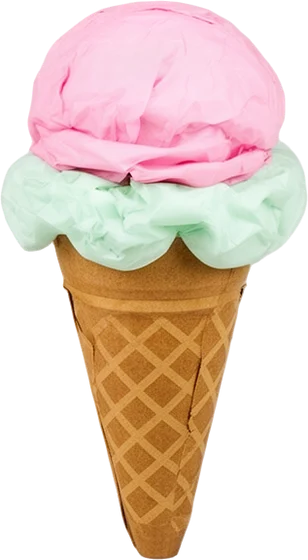
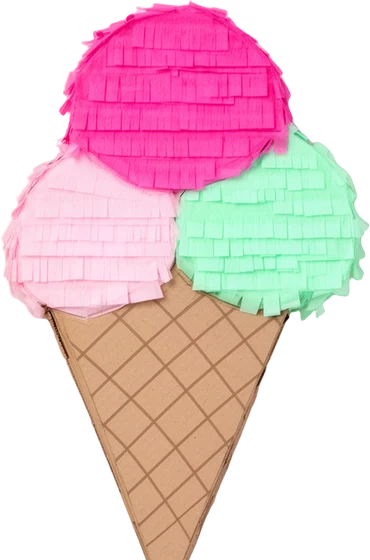
Piñata: Medium (about 50 cm) and Large (about 75 cm), priced and drawn to size; the crown, ice cream, cupcake and snowflake re-shot as real fringe piñatas

diff --git a/lib/studio/pinata.ts b/lib/studio/pinata.ts
@@ -1,7 +1,7 @@
 // The piñata (2026-11-03, the owner: "şimdi piñata studio'ya geçelim, sonra da cake studio"; her answers: a number
 // piñata — the child's age — or a theme shape; opened by pull strings or with a stick, both offered; shown hung on
 // a stand in a party room; prices placeholders until she sends hers): the Decor step's fifth part, after the
-// giveaways. One piñata, about 60 cm: its shape (the age in up to three colours, or a fringe shape — the theme's
+// giveaways. One piñata, medium or large: its shape (the age in up to three colours, or a fringe shape — the theme's
 // own first, never a licensed character), how it opens, and what is inside it as a list. Pure data and sums.
 import SHAPES from "./pinataShapes.json";
 
@@ -57,10 +57,21 @@ export const PINATA_FILLINGS = [
 ] as const;
 export type PinataFilling = (typeof PINATA_FILLINGS)[number]["id"];
 
-/** A number piñata of one digit, and each digit more; a theme shape (placeholders). */
-export const NUMBER_PINATA_PRICE = 220;
-export const EXTRA_DIGIT_PRICE = 150;
-export const SHAPE_PINATA_PRICE = 250;
+/** Its size (2026-11-03, the owner: "size seçilsin, medium ve large iki size olsun"), how tall. */
+export const PINATA_SIZES = [
+  { id: "medium", name: "Medium", note: "About 50 cm", cm: 50 },
+  { id: "large", name: "Large", note: "About 75 cm", cm: 75 },
+] as const;
+export type PinataSize = (typeof PINATA_SIZES)[number]["id"];
+
+/** A number piñata of one digit, and each digit more; a theme shape — by size (placeholders). */
+export const NUMBER_PINATA_PRICE: Record<PinataSize, number> = { medium: 220, large: 320 };
+export const EXTRA_DIGIT_PRICE: Record<PinataSize, number> = { medium: 150, large: 220 };
+export const SHAPE_PINATA_PRICE: Record<PinataSize, number> = { medium: 250, large: 360 };
+/** The piñata itself, by its shape, digits and size. */
+export const pinataPrice = (p: Pick<Pinata, "kind" | "number" | "size">) =>
+  p.kind === "number" ? NUMBER_PINATA_PRICE[p.size] + Math.max(0, p.number.length - 1) * EXTRA_DIGIT_PRICE[p.size] : SHAPE_PINATA_PRICE[p.size];
+export const pinataSize = (id: PinataSize) => PINATA_SIZES.find((s) => s.id === id) ?? PINATA_SIZES[0];
 /** Colours a number piñata's fringe comes in, in bands top to bottom. */
 export const MAX_PINATA_COLOURS = 3;
 
@@ -74,6 +85,7 @@ export interface Pinata {
   colours: string[];
   /** The theme-shape piñata. */
   shape: PinataShape;
+  size: PinataSize;
   opening: PinataOpening;
   fillings: PinataFilling[];
   /** The customer pressed Finish (they may still change it). */
@@ -92,15 +104,14 @@ export function defaultPinata(seed: { themeId?: string; age?: string; colours?: 
   const colours = (seed.colours ?? []).filter((h) => HEX.test(h)).slice(0, MAX_PINATA_COLOURS);
   return {
     enabled: true, kind: "number", number: cleanAge(seed.age) || "5", colours: colours.length ? colours : ["#F8BBD0", "#DDD6FE", "#BAE6FD"],
-    shape: (THEME_PINATAS[seed.themeId ?? ""] ?? ["star"])[0], opening: "pull", fillings: ["candy", "toys", "confetti"],
+    shape: (THEME_PINATAS[seed.themeId ?? ""] ?? ["star"])[0], size: "medium", opening: "pull", fillings: ["candy", "toys", "confetti"],
   };
 }
 
 export function pinataPriceLines(p: Pinata): { label: string; amount: number }[] {
   if (!p.enabled) return [];
-  const lines = p.kind === "number"
-    ? [{ label: `Number piñata "${p.number}"`, amount: NUMBER_PINATA_PRICE + Math.max(0, p.number.length - 1) * EXTRA_DIGIT_PRICE }]
-    : [{ label: `${PINATA_SHAPES.find((s) => s.id === p.shape)?.name ?? "Shape"} piñata`, amount: SHAPE_PINATA_PRICE }];
+  const size = pinataSize(p.size).name.toLowerCase();
+  const lines = [{ label: p.kind === "number" ? `Number piñata "${p.number}", ${size}` : `${PINATA_SHAPES.find((s) => s.id === p.shape)?.name ?? "Shape"} piñata, ${size}`, amount: pinataPrice(p) }];
   const opening = PINATA_OPENINGS.find((o) => o.id === p.opening)!;
   if (opening.price) lines.push({ label: `Piñata ${opening.name.toLowerCase()}`, amount: opening.price });
   for (const f of PINATA_FILLINGS.filter((x) => p.fillings.includes(x.id))) lines.push({ label: `Piñata filling: ${f.name.toLowerCase()}`, amount: f.price });
@@ -124,6 +135,7 @@ export function readPinata(raw: unknown): Pinata | undefined {
     number: cleanAge(r.number) || base.number,
     colours: colours.length ? colours : base.colours,
     shape: PINATA_SHAPES.find((s) => s.id === r.shape)?.id ?? base.shape,
+    size: PINATA_SIZES.find((s) => s.id === r.size)?.id ?? base.size,
     opening: PINATA_OPENINGS.find((o) => o.id === r.opening)?.id ?? base.opening,
     fillings: Array.isArray(r.fillings) ? PINATA_FILLINGS.filter((f) => (r.fillings as unknown[]).includes(f.id)).map((f) => f.id) : base.fillings,
     ...(r.done === true ? { done: true } : {}),
@@ -135,7 +147,7 @@ export function readPinata(raw: unknown): Pinata | undefined {
 /** Changes whenever anything that shows in the picture changes (the fillings are a list: they do not show). */
 export function pinataRenderKey(p: Pinata, themeId: string): string {
   const shown = p.kind === "number" ? { kind: p.kind, number: p.number, colours: p.colours } : { kind: p.kind, shape: p.shape };
-  const s = JSON.stringify([themeId, shown, p.opening]);
+  const s = JSON.stringify([themeId, shown, p.opening, p.size]);
   let h = 0x811c9dc5;
   for (let i = 0; i < s.length; i++) h = Math.imul(h ^ s.charCodeAt(i), 0x01000193);
   return (h >>> 0).toString(36);
@@ -147,9 +159,9 @@ export const digitPicture = (d: string) => ({ src: `/design/pinata/digit-${d}.we
 
 /**
  * The room photo (an empty white piñata stand, its hook on the crossbar) and where things go in it: the hook, the
- * floor at the stand's feet, and how tall a 60 cm piñata is there (the stand is about 2 m).
+ * floor at the stand's feet, and how many pixels a centimetre is there (the stand is about 2 m: 800 px).
  */
-export const PINATA_ROOM = { src: "/design/pinata/room.webp", w: 896, h: 1152, hook: { x: 446, y: 272 }, floor: 1000, legs: [262, 630], tall: 250 };
+export const PINATA_ROOM = { src: "/design/pinata/room.webp", w: 896, h: 1152, hook: { x: 446, y: 272 }, floor: 1000, legs: [262, 630], perCm: 4 };
 
 /** The piñata's words for the render. */
 export function pinataWords(p: Pinata): string {

diff --git a/components/builder/pinata/PinataStep.tsx b/components/builder/pinata/PinataStep.tsx
@@ -4,8 +4,8 @@
 import { formatAED, themeById, THEMES, type BuilderConfig } from "@/lib/config";
 import { PLAIN_COLOURS } from "@/lib/studio/tableCatalog";
 import {
-  EXTRA_DIGIT_PRICE, MAX_PINATA_COLOURS, NUMBER_PINATA_PRICE, PINATA_FILLINGS, PINATA_OPENINGS, SHAPE_PINATA_PRICE,
-  cleanAge, defaultPinata, pinataShapesFor, pinataTotal, shapePicture, type Pinata,
+  EXTRA_DIGIT_PRICE, MAX_PINATA_COLOURS, PINATA_FILLINGS, PINATA_OPENINGS, PINATA_SIZES,
+  cleanAge, defaultPinata, pinataPrice, pinataShapesFor, pinataTotal, shapePicture, type Pinata,
 } from "@/lib/studio/pinata";
 import { PinataPiece } from "./PinataPreview";
 import { FinishBar } from "@/components/builder/table/AdultTableStep";
@@ -35,7 +35,7 @@ export default function PinataStep({ config, setPinata, onFinish, onSkip, render
     return (
       <div className="bz-tb-intro" data-testid="pinata-intro">
         <h2>Add a piñata?</h2>
-        <p>A tissue-fringe piñata of about 60 cm — the age, or a shape for your {theme.name} theme — filled and hung on its stand. The price adds to your party.</p>
+        <p>A tissue-fringe piñata, medium or large — the age, or a shape for your {theme.name} theme — filled and hung on its stand. The price adds to your party.</p>
         <div className="actions">
           <button type="button" className="bz-next" onClick={() => setPinata(p ? { ...p, enabled: true, done: false } : defaultPinata(pinataSeed(config)))}>Yes, add a piñata ✦</button>
           {!p && <button type="button" className="bz-back" onClick={() => setPinata({ ...defaultPinata(pinataSeed(config)), enabled: false })}>No thanks, skip</button>}
@@ -62,7 +62,6 @@ export default function PinataStep({ config, setPinata, onFinish, onSkip, render
     set({ colours: [...p.colours, hex].slice(-MAX_PINATA_COLOURS) });
   };
   const shapes = pinataShapesFor(theme.id);
-  const digitsPrice = NUMBER_PINATA_PRICE + Math.max(0, p.number.length - 1) * EXTRA_DIGIT_PRICE;
 
   return (
     <div className="bz-tb" data-testid="pinata">
@@ -71,9 +70,9 @@ export default function PinataStep({ config, setPinata, onFinish, onSkip, render
         <div className="bz-tb-item">
           <div className="bz-tb-options" role="radiogroup" aria-label="Piñata" data-testid="pinata-kind">
             {card(p.kind === "number", () => set({ kind: "number" }), piece({ ...p, kind: "number" }, "pn-k-num"),
-              "Number", "The age, in the colours you pick", `AED ${formatAED(digitsPrice)}`, "number")}
+              "Number", "The age, in the colours you pick", `AED ${formatAED(pinataPrice({ ...p, kind: "number" }))}`, "number")}
             {card(p.kind === "shape", () => set({ kind: "shape" }), piece({ ...p, kind: "shape" }, "pn-k-shape"),
-              "Theme shape", `A fringe shape for your ${theme.name} theme`, `AED ${formatAED(SHAPE_PINATA_PRICE)}`, "shape")}
+              "Theme shape", `A fringe shape for your ${theme.name} theme`, `AED ${formatAED(pinataPrice({ ...p, kind: "shape" }))}`, "shape")}
           </div>
         </div>
         {p.kind === "number" ? <>
@@ -82,7 +81,7 @@ export default function PinataStep({ config, setPinata, onFinish, onSkip, render
             <label className="bz-gv-count">
               <input type="text" inputMode="numeric" maxLength={2} value={p.number} data-testid="pinata-number" aria-label="The age on the piñata"
                 onFocus={(e) => e.target.select()} onChange={(e) => { const n = cleanAge(e.target.value); if (n) set({ number: n }); }} />
-              <small>{p.number.length > 1 ? `Two numbers, side by side — +AED ${formatAED(EXTRA_DIGIT_PRICE)} for the second.` : "One number, about 60 cm tall."}</small>
+              <small>{p.number.length > 1 ? `Two numbers, side by side — +AED ${formatAED(EXTRA_DIGIT_PRICE[p.size])} for the second.` : "One number."}</small>
             </label>
           </div>
           <div className="bz-tb-item">
@@ -108,6 +107,18 @@ export default function PinataStep({ config, setPinata, onFinish, onSkip, render
             </div>
           </div>
         )}
+      </section>
+
+      {/* 2026-11-03 (the owner: "size seçilsin, medium ve large iki size olsun"). */}
+      <section className="bz-tb-section" aria-label="Size">
+        <h2>Size</h2>
+        <div className="bz-tb-item">
+          <div className="bz-tb-options" role="radiogroup" aria-label="Size" data-testid="pinata-size">
+            {PINATA_SIZES.map((s) => card(p.size === s.id, () => set({ size: s.id }),
+              <svg viewBox="0 0 120 90" aria-hidden="true"><PinataPiece p={p} x={60} top={84 - s.cm * 1.05} tall={s.cm * 1.05} maxW={s.cm * 1.5} uid={`pn-s-${s.id}`} /></svg>,
+              s.name, s.note, `AED ${formatAED(pinataPrice({ ...p, size: s.id }))}`, s.id))}
+          </div>
+        </div>
       </section>
 
       <section className="bz-tb-section" aria-label="How it opens">

diff --git a/tests/unit/pinata.test.ts b/tests/unit/pinata.test.ts
@@ -53,21 +53,27 @@ describe("piñata", () => {
 
   it("is priced: the number by its digits, a shape, the stick, the fillings", () => {
     const p = { ...defaultPinata(), fillings: [] };
-    expect(pinataTotal(p)).toBe(NUMBER_PINATA_PRICE);
-    expect(pinataTotal({ ...p, number: "10" })).toBe(NUMBER_PINATA_PRICE + EXTRA_DIGIT_PRICE);
-    expect(pinataTotal({ ...p, kind: "shape" })).toBe(SHAPE_PINATA_PRICE);
+    expect(pinataTotal(p)).toBe(NUMBER_PINATA_PRICE.medium);
+    expect(pinataTotal({ ...p, number: "10" })).toBe(NUMBER_PINATA_PRICE.medium + EXTRA_DIGIT_PRICE.medium);
+    expect(pinataTotal({ ...p, kind: "shape" })).toBe(SHAPE_PINATA_PRICE.medium);
+    // Large (2026-11-03: "medium ve large iki size olsun").
+    expect(pinataTotal({ ...p, size: "large", number: "10" })).toBe(NUMBER_PINATA_PRICE.large + EXTRA_DIGIT_PRICE.large);
+    expect(pinataTotal({ ...p, size: "large", kind: "shape" })).toBe(SHAPE_PINATA_PRICE.large);
+    expect(pinataPriceLines({ ...p, size: "large" })[0].label).toBe('Number piñata "5", large');
     expect(pinataPriceLines({ ...p, opening: "stick" }).map((l) => l.label)).toContain("Piñata stick & blindfold");
     expect(pinataPriceLines({ ...p, fillings: ["candy", "confetti"] })).toHaveLength(3);
     expect(pinataPriceLines({ ...p, enabled: false })).toEqual([]);
     const config = { ...defaultConfig(), pinata: p };
-    expect(priceBreakdown(config).lines.filter((l) => l.section === "pinata").map((l) => l.amount)).toEqual([NUMBER_PINATA_PRICE]);
+    expect(priceBreakdown(config).lines.filter((l) => l.section === "pinata").map((l) => l.amount)).toEqual([NUMBER_PINATA_PRICE.medium]);
   });
 
   it("is read back over the defaults, never with what does not belong", () => {
     expect(readPinata(null)).toBeUndefined();
     const p = readPinata({ kind: "roof", number: "abc", colours: ["red", "#112233", "#445566", "#778899", "#AABBCC"], shape: "nope", opening: "bomb", fillings: ["candy", "rocks"],
       render: { key: "k1", path: "https://evil.example/a.jpg" } })!;
-    expect(p).toMatchObject({ enabled: true, kind: "number", number: "5", colours: ["#112233", "#445566", "#778899"], shape: "star", opening: "pull", fillings: ["candy"] });
+    expect(p).toMatchObject({ enabled: true, kind: "number", number: "5", colours: ["#112233", "#445566", "#778899"], shape: "star", opening: "pull", size: "medium", fillings: ["candy"] });
+    expect(readPinata({ size: "large" })?.size).toBe("large");
+    expect(readPinata({ size: "huge" })?.size).toBe("medium");
     expect(p.render).toBeUndefined();
     expect(readPinata({ kind: "shape", shape: "rocket", opening: "stick", enabled: false, done: true })).toMatchObject({ kind: "shape", shape: "rocket", opening: "stick", enabled: false, done: true });
   });
@@ -79,6 +85,7 @@ describe("piñata", () => {
     expect(pinataRenderKey({ ...p, number: "7" }, "unicorn")).not.toBe(k);
     expect(pinataRenderKey({ ...p, colours: ["#000000"] }, "unicorn")).not.toBe(k);
     expect(pinataRenderKey({ ...p, opening: "stick" }, "unicorn")).not.toBe(k);
+    expect(pinataRenderKey({ ...p, size: "large" }, "unicorn")).not.toBe(k);
     const s = { ...p, kind: "shape" as const };
     expect(pinataRenderKey({ ...s, colours: ["#000000"] }, "unicorn")).toBe(pinataRenderKey(s, "unicorn"));
   });
@@ -86,6 +93,8 @@ describe("piñata", () => {
   it("asks the render for the number and the opening it shows", () => {
     const p = defaultPinata({ age: "4" });
     expect(pinataPrompt(p)).toContain("the number 4");
+    expect(pinataPrompt(p)).toContain("about 50 cm tall");
+    expect(pinataPrompt({ ...p, size: "large" })).toContain("about 75 cm tall");
     expect(pinataPrompt(p)).toContain("pull strings");
     expect(pinataPrompt({ ...p, kind: "shape", shape: "rocket", opening: "stick" })).toMatch(/rocket piñata.*blindfold/);
   });

diff --git a/components/builder/pinata/PinataPreview.tsx b/components/builder/pinata/PinataPreview.tsx
@@ -4,7 +4,7 @@
 // and blindfold by the stand. Then that picture rendered into one photograph (usePieceRender, /api/pinata-render).
 import { useEffect, useState } from "react";
 import { themeById, THEMES, type BuilderConfig } from "@/lib/config";
-import { PINATA_FILLINGS, PINATA_ROOM, digitPicture, shapePicture, type Pinata } from "@/lib/studio/pinata";
+import { PINATA_FILLINGS, PINATA_ROOM, digitPicture, pinataSize, shapePicture, type Pinata } from "@/lib/studio/pinata";
 import { usePhoneJump } from "@/components/builder/usePhoneJump";
 import type { PieceRender } from "@/components/builder/usePieceRender";
 import RenderAgain from "@/components/builder/RenderAgain";
@@ -46,12 +46,13 @@ export function PinataPiece({ p, x, top, tall, uid, maxW = 380 }: { p: Pinata; x
 }
 
 /** As wide as it may hang: inside the stand's legs. */
-const ROOM_W = 330;
+const ROOM_W = 350;
 
 /** How tall the piñata hangs in the room, and where its top is: a wide shape is drawn less tall. */
 function hung(p: Pinata) {
-  const { hook, tall } = PINATA_ROOM;
+  const { hook, perCm } = PINATA_ROOM;
   const top = hook.y + 46;
+  const tall = pinataSize(p.size).cm * perCm;
   let h = tall;
   if (p.kind === "shape") {
     const pic = shapePicture(p.shape);
@@ -136,7 +137,7 @@ export default function PinataPreview({ config, render, onGenerate }: { config: 
           </div>
         )}
         <p className="note">{showRender ? "Your render — this picture, made into one photograph."
-          : <>About 60 cm, hung on its stand. {inside.length ? <>Inside: {inside.map((f) => f.name).join(" · ")}</> : "Nothing inside yet — pick what goes in it."}</>}</p>
+          : <>{pinataSize(p.size).note}, hung on its stand. {inside.length ? <>Inside: {inside.map((f) => f.name).join(" · ")}</> : "Nothing inside yet — pick what goes in it."}</>}</p>
         {backTo !== null && <button type="button" className="bz-tb-back" data-testid="pinata-back-to-choices" onClick={back}>↑ Back to your choices</button>}
         {!render.ready && !render.loading && (
           <div className="bz-tb-render" data-testid="pinata-render-box">

diff --git a/lib/studio/pinataRender.ts b/lib/studio/pinataRender.ts
@@ -1,6 +1,6 @@
 // The words for the piñata's render (app/api/pinata-render/route.ts, 2026-11-03): keep the scene of the live
 // preview exactly — the piñata on the stand's hook in the party room — and make it one real photograph.
-import { pinataWords, type Pinata } from "./pinata";
+import { pinataSize, pinataWords, type Pinata } from "./pinata";
 
 /** The words for the photograph: keep the scene, make it real. */
 export function pinataPrompt(p: Pinata): string {
@@ -8,7 +8,7 @@ export function pinataPrompt(p: Pinata): string {
     ? "Under it hang its pull strings — thin satin ribbons in the same colours, each one where image 1 has it; make them real ribbons, hanging softly."
     : "Keep the piñata stick leaning on the stand's right leg, wrapped in crepe paper in the same colours, and the satin blindfold lying on the floor by it; make them real.";
   return [
-    `Image 1 is a preview of a children's birthday party room: ${pinataWords(p)}, about 60 cm tall, hanging by a rope from the hook of a white piñata stand.`,
+    `Image 1 is a preview of a children's birthday party room: ${pinataWords(p)}, about ${pinataSize(p.size).cm} cm tall, hanging by a rope from the hook of a white piñata stand.`,
     "Make it one real, natural photograph of exactly this scene, from the same camera position, with the same framing and every part the same size and in the same place.",
     p.kind === "number"
       ? `Keep the piñata exactly: the number ${p.number}, the same shape, the same colours in the same bands, covered all over in real layered tissue-paper fringe.`

diff --git a/tests/e2e/table-step.spec.ts b/tests/e2e/table-step.spec.ts
@@ -391,6 +391,12 @@ test("P1 the piñata: the age in her colours or a theme shape, how it opens, wha
   await page.getByTestId("pinata-number").fill("10");
   await expect(art.locator("[data-part=pinata] > g")).toHaveCount(2);
   expect(aed(await sum.textContent())).toBe(one + 150);
+  // Large (2026-11-03: "medium ve large iki size olsun"): bigger on the stand, and priced.
+  const h0 = Number(await art.locator("[data-part=pinata] > g > image").first().getAttribute("height"));
+  await page.getByTestId("pinata-size").getByRole("radio", { name: /Large/ }).click();
+  expect(Number(await art.locator("[data-part=pinata] > g > image").first().getAttribute("height"))).toBeGreaterThan(h0 * 1.2);
+  expect(aed(await sum.textContent())).toBe(one - 220 + 320 + 220); // 320 and 220 for the second digit, large
+  await page.getByTestId("pinata-size").getByRole("radio", { name: /Medium/ }).click();
   // Her colours, in the order picked: one taken off, one more on.
   const colours = page.getByTestId("pinata-colours").getByRole("button");
   const picked = page.getByTestId("pinata-colours").locator("button[aria-pressed=true]");
